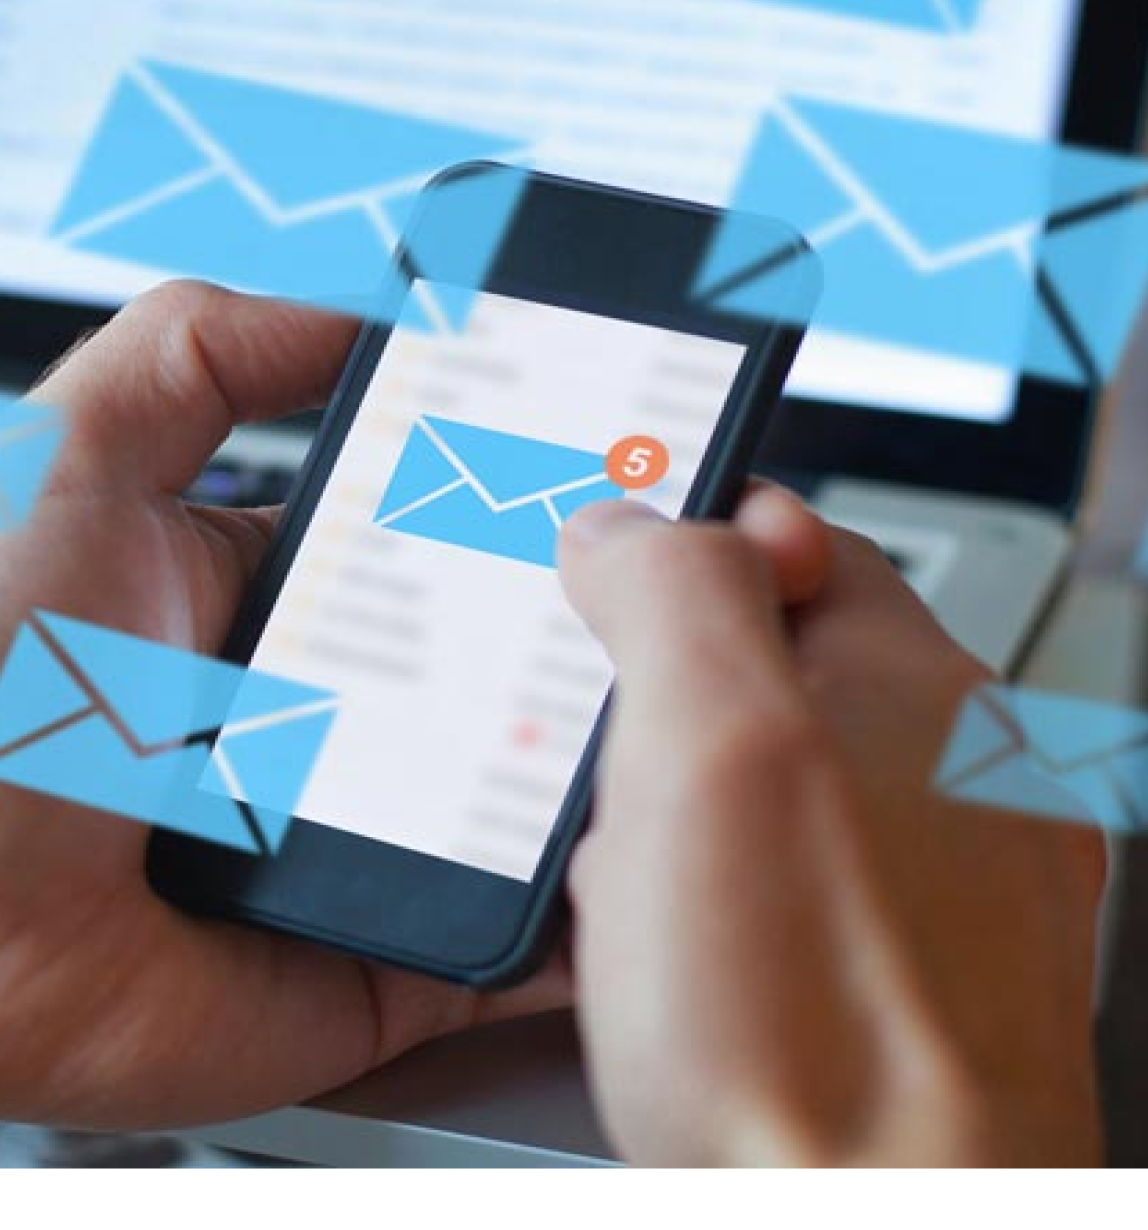
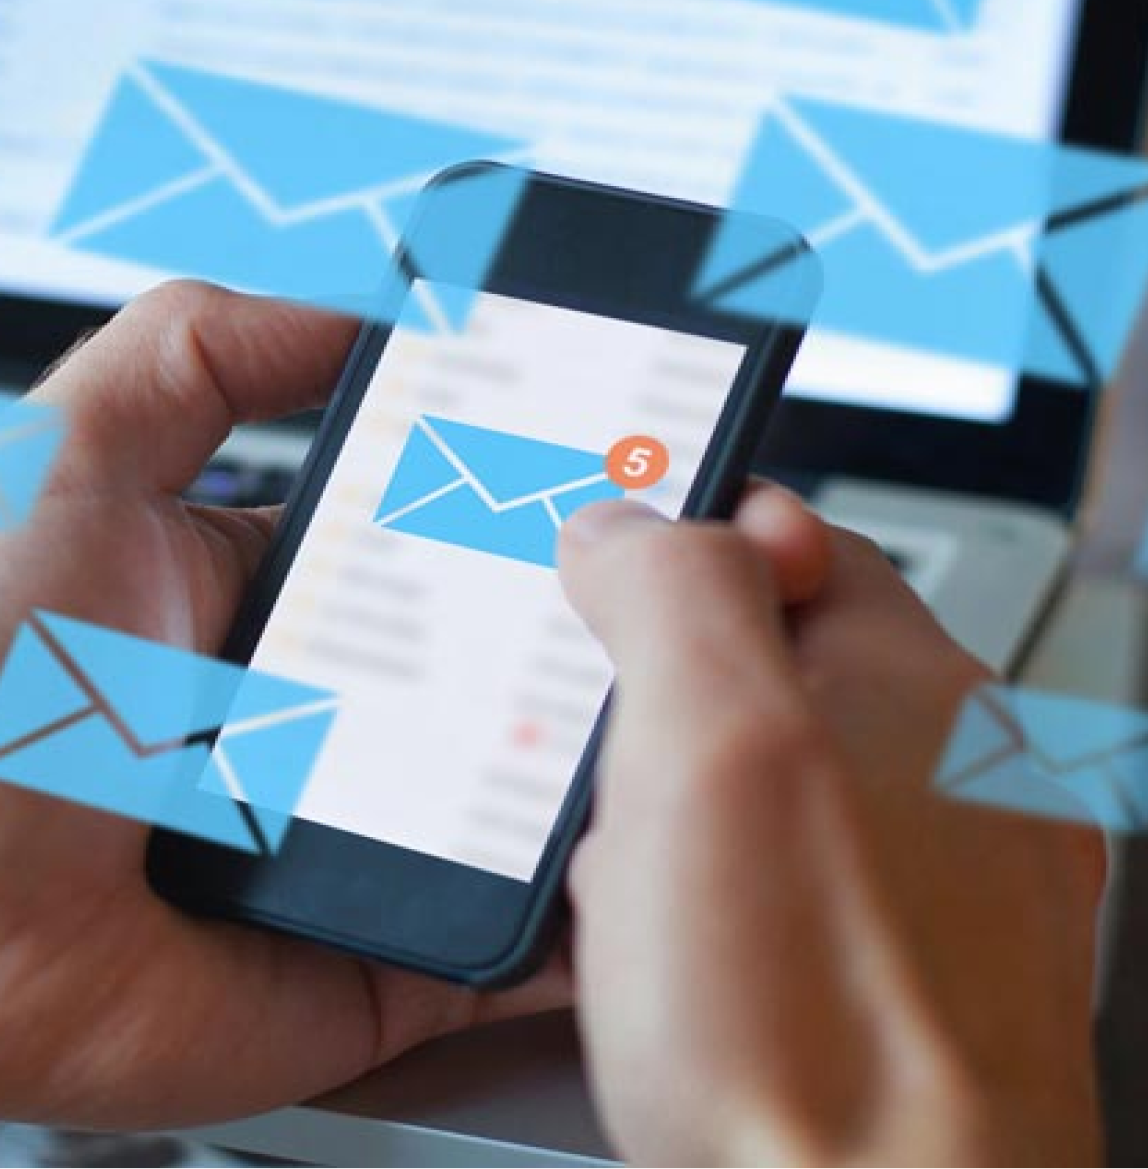
Modificação 1 Contato

diff --git a/templates/contato.html b/templates/contato.html
@@ -1,80 +1,105 @@
 <!DOCTYPE html>
-<html lang="pt-BR">
+<html lang="pt-br">
+
 <head>
-    <meta charset="UTF-8">
-    <meta name="viewport" content="width=device-width, initial-scale=1.0">
-    <title>Verbum - Contato</title>
-    <link rel="stylesheet" href="styles.css">
+  <meta charset="UTF-8">
+  <meta name="viewport" content="width=device-width, initial-scale=1.0">
+  <title>Verbum - Contato</title>
+
+  <link href="https://cdn.jsdelivr.net/npm/bootstrap@5.3.3/dist/css/bootstrap.min.css" rel="stylesheet"
+    integrity="sha384-QWTKZyjpPEjISv5WaRU9OFeRpok6YctnYmDr5pNlyT2bRjXh0JMhjY6hW+ALEwIH" crossorigin="anonymous">
+  <link rel="stylesheet" href="/static/style.css">
+  <script src="https://cdn.jsdelivr.net/npm/bootstrap@5.3.3/dist/js/bootstrap.bundle.min.js"
+    integrity="sha384-YvpcrYf0tY3lHB60NNkmXc5s9fDVZLESaAA55NDzOxhy9GkcIdslK1eN7N6jIeHz"
+    crossorigin="anonymous"></script>
+  <link rel="stylesheet" href="https://cdn.jsdelivr.net/npm/bootstrap-icons@1.10.5/font/bootstrap-icons.css">
+  <link rel="preconnect" href="https://fonts.googleapis.com">
+  <link rel="preconnect" href="https://fonts.gstatic.com" crossorigin>
+  <link href="https://fonts.googleapis.com/css2?family=Oswald:wght@200..700&display=swap" rel="stylesheet">
+  <link rel="shortcut icon" href="{{url_for('static', filename='img/logo.png')}}" type="image/x-icon">
+  <link href="https://fonts.googleapis.com/css2?family=Roboto:wght@400;500;700&display=swap" rel="stylesheet">
 </head>
 <body>
     <header>
-        <div class="logo">
-            <img src="logo.png" alt="Verbum Book Club">
-        </div>
-        <div class="search-bar">
-            <input type="text" placeholder="Título, Autor, Palavra Chave...">
-        </div>
-        <div class="user-icons">
-            <a href="#"><img src="user-icon.png" alt="Usuário"></a>
-            <a href="#"><img src="notifications-icon.png" alt="Notificações"></a>
-        </div>
+        <div class="header-container w-100 d-flex justify-content-center">
+            <div class="logo-container w-50 d-flex justify-content-start">
+            <img src="/static/img/verbumbook.png" class="w-25 m-4" alt="Verbum Logo">
+            </div>
+            <div class="d-flex align-items-center justify-content-end w-50">
+                <div class="user-icon d-flex justify-content-center">
+                <img src="/static/img/user.png" class="w-50" id="userImage" alt="Imagem do usuário"
+                    onclick="toggleUserMenu()">
+                </div>
+                <img src="/static/img/notificacoes.png" id="notificacoes" alt="Notificações">
+            </div>
+            </div>
     </header>
 
-    <nav>
-        <ul>
-            <li><a href="#">Principal</a></li>
-            <li><a href="#">Livros</a></li>
-            <li class="active"><a href="#">Contato</a></li>
+    <nav class="d-flex justify-content-start align-items-end h-100">
+        <ul class="d-flex align-items-end">
+          <li><a href="/home">Principal</a></li>
+          <li><a href="/livros">Livros</a></li>
+          <li><a href="/contato">Contato</a></li>
         </ul>
-    </nav>
+      </nav>
 
     <main>
-        <div class="contact-info">
+      <div class="contact-info">
+        <div class="contact-methods">
+          <div class="title-cont">
             <h1>Contato</h1>
             <p>Deseja esclarecer alguma dúvida? Possui uma sugestão de livro? As opções de contato são essas:</p>
-            <div class="contact-methods">
-                <div class="method">
-                    <img src="/static/img/letter.png" alt="Email">
-                    <p>sesisp399@gmail.com</p>
-                </div>
-                <div class="method">
-                    <img src="phone-icon.png" alt="Telefone">
-                    <p>(15) 3522-1562</p>
-                </div>
-                <div class="method">
-                    <img src="location-icon.png" alt="Endereço">
-                    <p>Av. Kazumi Yoshimura, 430 - Parque Industrial</p>
-                </div>
+          </div>  
+            <div class="method">
+                <img src="/static/img/letter.png" alt="Email">
+                <p>Sesisp399@gmail.com</p>
+            </div>
+            <div class="method">
+                <img src="/static/img/telefone.png" alt="Telefone">
+                <p>(15) 3522-1562</p>
+            </div>
+            <div class="method">
+                <img src="/static/img/local.png" alt="Endereço">
+                <p>Av. Kazumi Yoshimura, 430 - Parque Industrial</p>
             </div>
         </div>
-        <div class="contact-image">
-            <img src="/static/img/contato.png" alt="Contato">
-        </div>
+        <img src="/static/img/contato.png" alt="Contato">
+    </div>
     </main>
 
     <footer>
-        <div class="footer-logo">
-            <img src="footer-logo.png" alt="Verbum Book Club">
+        <div class="logo-section">
+          <img src="/static/img/logo.png" alt="Logo Verbum" style="width: 100%;">
         </div>
-        <div class="footer-links">
-            <div class="column">
-                <h3>Outros</h3>
-                <a href="#">Termos de Serviço</a>
-                <a href="#">Sobre</a>
-            </div>
-            <div class="column">
-                <h3>Descobrir</h3>
-                <a href="#">Início</a>
-                <a href="#">Temas</a>
-            </div>
-            <div class="column">
-                <h3>Ajuda</h3>
-                <a href="#">Caixa de Entrada</a>
-            </div>
+  
+        <div class="column">
+          <h3>OUTROS</h3>
+          <ul>
+            <li><a href="#">Termos de serviço</a></li>
+            <li><a href="#">Sobre</a></li>
+          </ul>
         </div>
-        <div class="footer-credits">
-            <p>Sistema desenvolvido pelos alunos: Davi, Malu, Igor, Luiz Henrique</p>
+  
+        <div class="column">
+          <h3>DESCOBRIR</h3>
+          <ul>
+            <li><a href="#">Início</a></li>
+            <li><a href="#">Temas</a></li>
+            <li><a href="#">Recursos externos</a></li>
+          </ul>
         </div>
-    </footer>
+  
+        <div class="column">
+          <h3>AJUDA</h3>
+          <ul>
+            <li><a href="#">Caixa de Entrada</a></li>
+            <li><a href="#">Contato</a></li>
+          </ul>
+        </div>
+  
+        <div class="copyright">
+          <strong>Sistema desenvolvido pelos alunos: Davi, Igor, Luiz e Maria Luisa
+        </div>
+      </footer>
 </body>
 </html>

diff --git a/static/style.css b/static/style.css
@@ -15,6 +15,13 @@ header {
   color: white;
 }
 
+main {
+  margin-bottom: 0;
+  padding-bottom: 0;
+  height: auto;
+  min-height: 0;
+}
+
 .search-container {
   background-color: #0b60b3;
   display: flex;
@@ -172,38 +179,54 @@ button {
 }
 
 .contact-info {
-  flex: 1;
+  display: flex;
+  flex-direction: row;
+  align-items: center; 
+  justify-content: space-between; 
+  margin-left: 4%;
+  
 }
 
 .contact-info h1 {
-  margin-bottom: 20px;
   font-size: 2rem;
+  font-weight: 300;
+  font-family: "Oswald", sans-serif;
+
 }
 
 .contact-info p {
-  margin-bottom: 10px;
-  font-size: 1.1rem;
+  font-size: 1.3rem;
+  font-weight: 300;
+  font-family: "Oswald", sans-serif;
+}
+
+.title-cont{
+  position: relative;
+  top: -105px;
 }
 
 .contact-methods {
-  display: flex;
-  flex-direction: column;
-  gap: 10px;
+  flex: 1;
+}
+
+.contact-info img {
+  height: 600px;
+  flex-shrink:1; 
 }
 
 .method {
   display: flex;
   align-items: center;
-  gap: 10px;
+  position: relative;
+  top: -50px;
+  margin: 2%;
 }
 
 .method img {
-  height: 30px;
-}
-
-.contact-image img {
-  height: 300px;
-  object-fit: cover;
+  height: 50px;
+  margin-right: 2%;
+  position: relative;
+  top: -8px;
 }
 
 footer {
@@ -214,7 +237,7 @@ footer {
   justify-content: space-between;
   align-items: center; 
   height: 20%;
-  margin-top: 3%;
+  
   
 }
 
